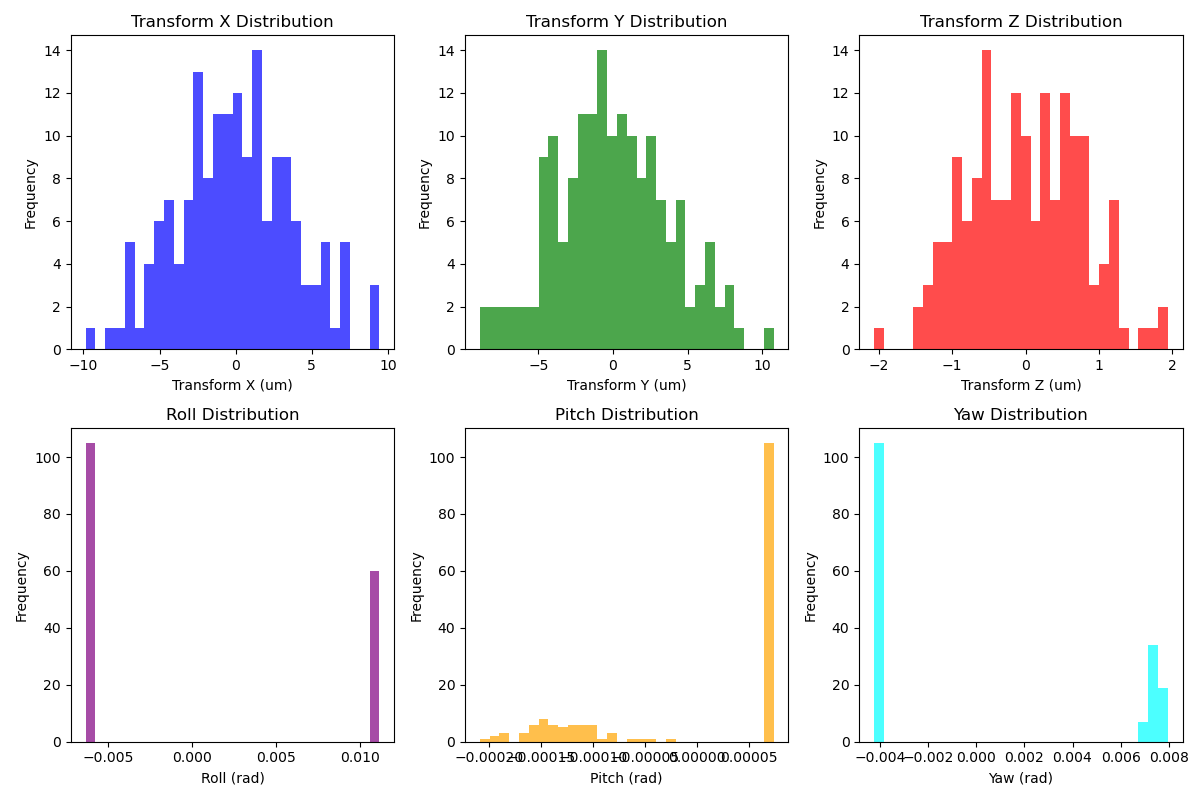
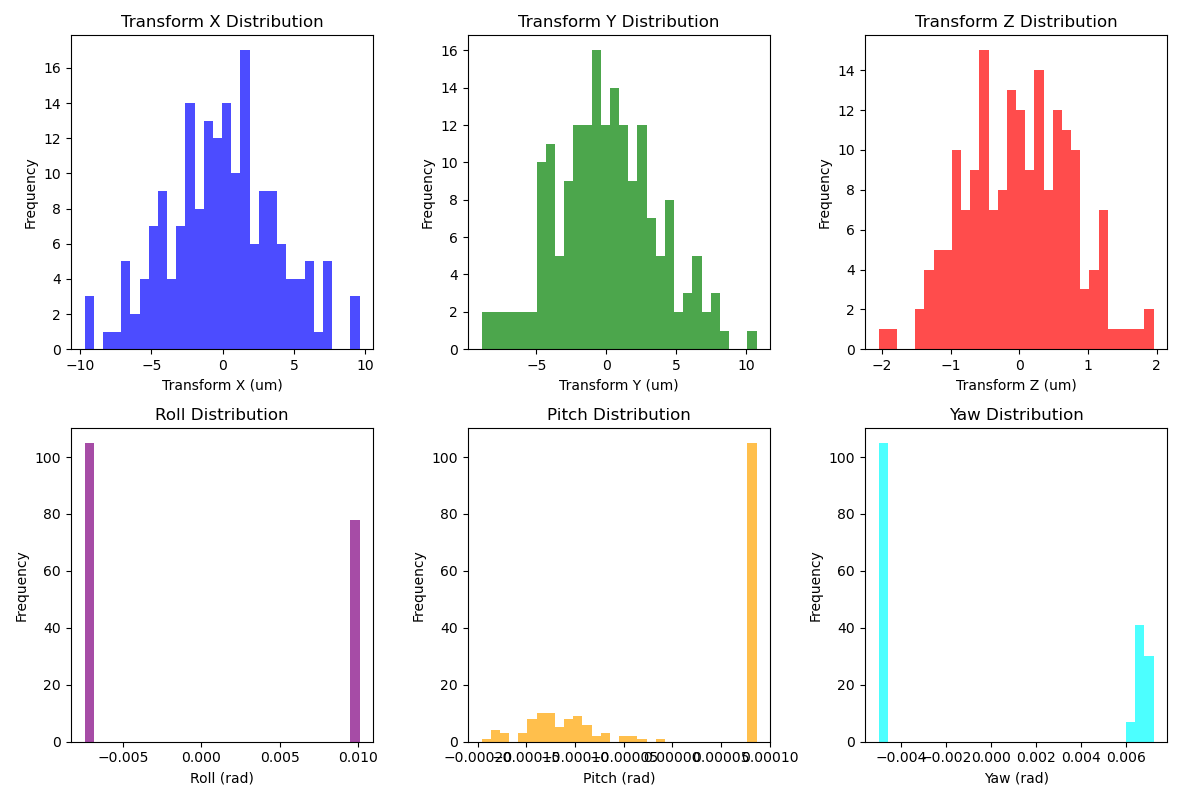
fixes

diff --git a/documentation/tolerance_analyses/tolerance_analyises.py b/documentation/tolerance_analyses/tolerance_analyises.py
@@ -22,7 +22,7 @@ from assembly_scene_publisher.py_modules.scene_functions import get_frames_for_p
 class TolMeasurment():
     STD_CAMERA= 5 #um
     STD_LASER = 1 #um
-    NUM_ITERATIONS = 50
+    NUM_ITERATIONS = 2
 
     SCOPE_FRAME = "assembly_frame_Description_Glas_6D_tol-1_UFC_6D_tol-1"
     TARGET_FRAME = 'target_frame_Description_Glas_6D_tol-1_UFC_6D_tol-1'
